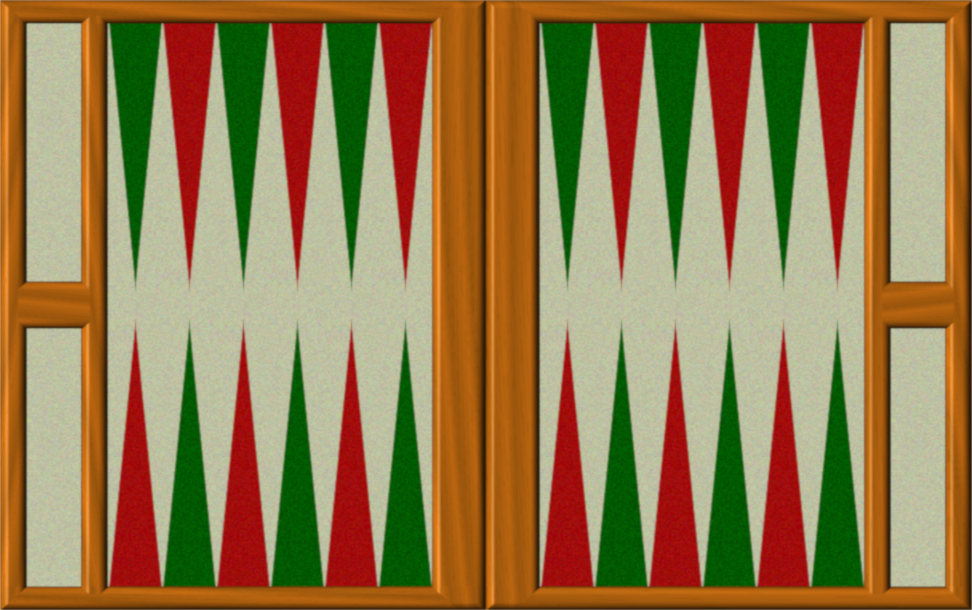
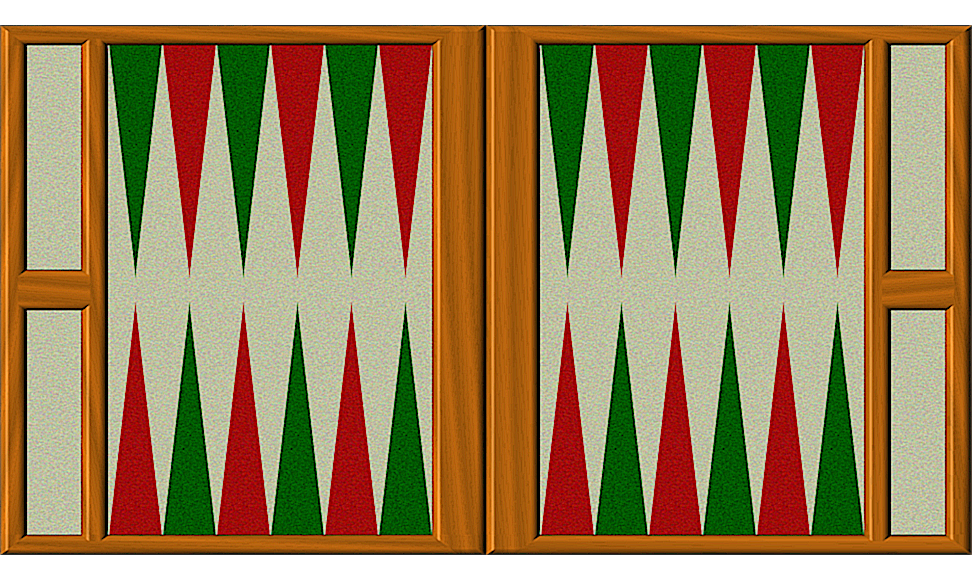
update

diff --git a/app/static/ytbg.js b/app/static/ytbg.js
@@ -27,7 +27,7 @@
  *=====================================================
  */
 const MY_NAME = "ytBackgammon Client";
-const VERSION = "0.14";
+const VERSION = "0.15";
 
 /**
  * base class for backgammon
@@ -241,7 +241,7 @@ class InverseButton extends BoardButton {
     constructor(id, board) {
         super(id, board);
 
-        this.x = this.board.x + this.board.w + 50;
+        this.x = this.board.x + this.board.w + 30;
         this.y = this.board.y + this.board.h / 2 - this.h / 2;
         this.move(this.x, this.y);
     }
@@ -275,7 +275,7 @@ class UndoButton extends EmitButton {
     constructor(id, board) {
         super(id, board, "back");
 
-        this.x = this.board.x + this.board.w + 40;
+        this.x = this.board.x + this.board.w + 20;
         this.y = this.board.y + this.board.h - this.w - 50;
         this.move(this.x, this.y);
     }
@@ -288,7 +288,7 @@ class RedoButton extends EmitButton {
     constructor(id, board) {
         super(id, board, "forward");
 
-        this.x = this.board.x + this.board.w + 40;
+        this.x = this.board.x + this.board.w + 20;
         this.y = this.board.y + 50;
         this.move(this.x, this.y);
     }
@@ -984,15 +984,16 @@ class Board extends BackgammonItem {
         this.turn = -1;
 
         this.bx = [27, 81, 108, 432, 540, 864, 891, 945];
-        this.by = [24, 586];
-        [this.tx, this.ty] = [570, 285];
-        [this.dx, this.dy] = [620, 285];
+        this.by = [46, 535];
+        [this.tx, this.ty] = [570, 270];
+        [this.dx, this.dy] = [620, 267];
 
         // Title
         const name_el = document.getElementById("name");
-        name_el.style.left = "35px";
+        name_el.style.left = "10px";
         const ver_el = document.getElementById("version");
         ver_el.innerHTML = `<strong>${MY_NAME}</strong>, Version ${VERSION}`;
+        ver_el.style.width = "500px";
 
         // Buttons
         this.button_undo = new UndoButton("button-undo", this);
@@ -1363,7 +1364,7 @@ class Board extends BackgammonItem {
         let z = Math.floor(ch_n / po.max_n);
         let n = ch_n % po.max_n;
         let x = po.cx;
-        let y = po.y0 + (ch.h / 2 + ch.h * n + ch.h / 5 * z) * po.direction;
+        let y = po.y0 + (ch.h / 2 + ch.h * n * 0.75 + ch.h / 5 * z) * po.direction;
         ch.move(x, y, true);
         ch.calc_z();
         ch.cur_point = p;
@@ -1594,27 +1595,21 @@ class DiceArea extends BoardArea {
     }
 } // DiceArea
 
+let ws = undefined;
+
 /**
  *
  */
 window.onload = function () {
     let url = "http://" + document.domain + ":" + location.port + "/";
-    let ws = io.connect(url);
+    ws = io.connect(url);
 
     let player = 0;
     if ( location.pathname == "/p2" ) {
         player = 1;
     }
 
-    let board = new Board("board", 50, 50, player, ws);
-
-    /**
-     *
-     */
-    const emit_msg = (type, data) => {
-        console.log(`emit_msg> type=${type}, data=${JSON.stringify(data)}`);
-        ws.emit('json', {src: player, type: type, data: data});        
-    };
+    let board = new Board("board", 10, 15, player, ws);
 
     ws.on('connect', function() {
         console.log('ws.on(connected)');
@@ -1627,13 +1622,6 @@ window.onload = function () {
 
     ws.on('json', function(msg) {
         console.log(`ws.on(json):msg=${JSON.stringify(msg)}`);
-
-        /*
-        if ( msg.src == player ) {
-            console.log('msg> ignore');
-            return;
-        }
-        */
 
         if ( msg.type == 'gameinfo' ) {
             board.load_gameinfo(msg.data);
@@ -1658,3 +1646,25 @@ window.onload = function () {
         }
     });
 }; // window.onload
+
+const menu_undo = () => {
+    console.log('menu_back()');
+};
+
+const menu_redo = () => {
+    console.log('menu_redo()');
+};
+
+const menu_reset = () => {
+    console.log('menu_reset()');
+
+    emit_msg('back_all', {}, false);
+};
+
+/**
+ *
+ */
+const emit_msg = (type, data, history=false) => {
+    console.log(`emit_msg> type=${type}, data=${JSON.stringify(data)}`);
+    ws.emit('json', {src: "player", type: type, data: data, history: history});        
+};

diff --git a/app/templates/index.html b/app/templates/index.html
@@ -13,26 +13,15 @@
       type="text/javascript"
       src="//cdnjs.cloudflare.com/ajax/libs/socket.io/1.3.5/socket.io.min.js">
     </script>
-    <script type="text/javascript" src="/static/ytbg.js?p=(new Date()).getTime()"></script>
-    <link rel="stylesheet" type="text/css" href="/static/ytbg.css?p=(new Date()).getTime()">
-    <link rel="stylesheet" type="text/css" href="/static/menu.css">
+    <script type="text/javascript" src="/static/ytbg.js?p=(new Date()).getTime();"></script>
+    <link rel="stylesheet" type="text/css" href="/static/ytbg.css?p=(new Date()).getTime();">
+    <link href="https://use.fontawesome.com/releases/v5.0.6/css/all.css" rel="stylesheet">
   </head>
   <body>
-    <div id="menu">
-      <div>
-        <a href="#menu"
-           class="menuopen"><img src="/static/images/menu01.png"></a>
-        <a href="#close"
-           class="menuclose"><img src="/static/images/menu01.png">
-      </div>
-      <ul>
-	<li><a>Undo</a></li>
-	<li><a>Redo</a></li>
-	<li><a>Reset</a></li>
-      </ul>
-    </div>
+    <blockquote>
     <div id="name">
-      <strong>{{ name }}</strong>, Version {{ version }}<br />
+      <i class="fas fa-bars" onClick="menu_reset();"></i>&nbsp;&nbsp;
+      <strong>{{ name }}</strong>, Version {{ version }}&nbsp;/&nbsp;
       <span id="version">Version Number</span>
     </div>
     <div id="buttons">

diff --git a/app/bgserver.py b/app/bgserver.py
@@ -5,12 +5,13 @@ from Backgammon import Backgammon
 from flask import Flask, render_template, request
 from flask_socketio import SocketIO, emit
 import copy
+import time
 from MyLogger import get_logger
 import click
 CONTEXT_SETTINGS = dict(help_option_names=['-h', '--help'])
 
 MY_NAME = 'ytBackgammon Server'
-VERSION = '0.12'
+VERSION = '0.14'
 
 _log = get_logger(__name__, True)
 
@@ -21,12 +22,37 @@ socketio = SocketIO(app)
 client_sid = []
 history = []
 fwd_hist = []
-bg = Backgammon(debug=True)
+bg = Backgammon(VERSION, debug=True)
 
 history.append(copy.deepcopy(bg._gameinfo))
 _log.debug('history=(%d)%s', len(history), history)
 
 
+def back_all():
+    _log.debug('')
+
+    while len(history) > 1:
+        back()
+        time.sleep(.2)
+        
+
+def back():
+    """
+    """
+    _log.debug('history=(%d)', len(history))
+
+    if len(history) == 1:
+        bg._gameinfo = copy.deepcopy(history[0])
+    else:
+        fwd_hist.append(history.pop())
+        bg._gameinfo = copy.deepcopy(history[-1])
+
+    _log.debug('history=(%d)', len(history))
+
+    emit('json', {'src': 'server', 'dst': '', 'type': 'gameinfo',
+                  'data': bg._gameinfo}, broadcast=True)
+
+        
 @app.route('/')
 def index():
     return render_template('top.html', name=MY_NAME, version=VERSION)
@@ -79,19 +105,12 @@ def handle_json(msg):
 
     append_history = msg['history']
 
+    if msg['type'] == 'back_all':
+        back_all()
+        return
+
     if msg['type'] == 'back':
-        _log.debug('history=(%d)%s', len(history), history)
-
-        if len(history) == 1:
-            bg._gameinfo = copy.deepcopy(history[0])
-        else:
-            fwd_hist.append(history.pop())
-            bg._gameinfo = copy.deepcopy(history[-1])
-
-        _log.debug('history=(%d)', len(history))
-
-        emit('json', {'src': 'server', 'dst': '', 'type': 'gameinfo',
-                      'data': bg._gameinfo}, broadcast=True)
+        back()
         return
 
     if msg['type'] == 'forward':

diff --git a/app/Backgammon.py b/app/Backgammon.py
@@ -6,16 +6,23 @@ CONTEXT_SETTINGS = dict(help_option_names=['-h', '--help'])
 class Backgammon:
     _log = get_logger(__name__, False)
 
-    def __init__(self, debug=False):
+    def __init__(self, svr_ver='', debug=False):
         self._dbg = debug
         __class__._log = get_logger(__class__.__name__, self._dbg)
-        self._log.debug('')
+        self._log.debug('svr_ver=%a', svr_ver)
 
+        self.svr_ver = svr_ver
+        
         self._gameinfo = {
+            'server_version': self.svr_ver,
             'game': 0,
             'match': 0,
             'score': [0, 0],
             'turn': 2,  # <=-1:all off, 0:player0, 1:player1, >=2:all on
+            'text': [
+                '',
+                ''
+            ],
             'board': {
                 'cube': {
                     'side': -1,
